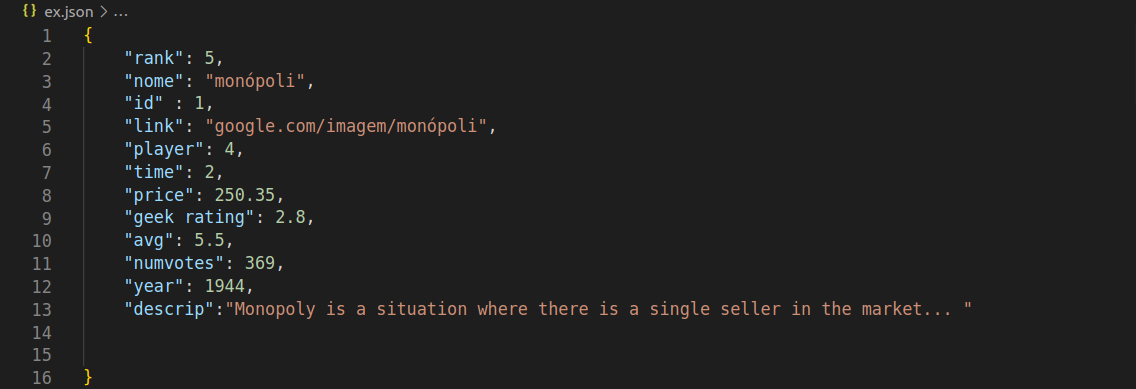
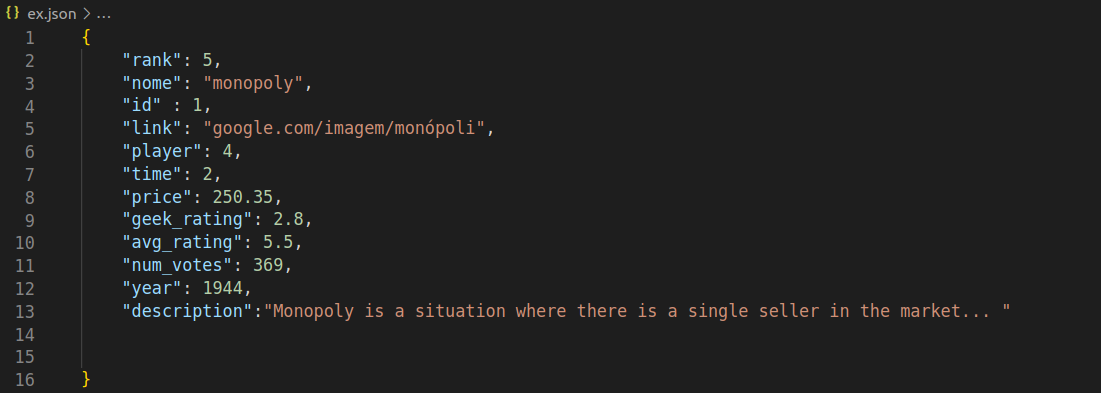
Docs- atualizado

diff --git a/Documentation.md b/Documentation.md
@@ -2,7 +2,7 @@
 ## API:
 
 
-  O Django irá auxiliar para o tratamento de dados contendo as seguintes informações salvas em um banco de dados interno como END points, e retorna-os em um .JSON:
+  <div aling="center" >O Django irá auxiliar para o tratamento de dados contendo as seguintes informações salvas em um banco de dados interno como END points, e retorna-os em um .JSON:</div>
   
   | Endpoint | Descrição | 
   |-----------|:-----------:|
@@ -36,9 +36,9 @@
 | player | Quantidade de jogadores | integer |
 | time | Duração média de uma partida | integer |
 | price | Preço do jogo(se disponível) | float |
-| geek rating | Categoria de 0 a 10 | float |
-| avg | Categoria de 0 a 10 | float |
-| numvotes | Quantidade de pessoas que votaram | integer |
+| geek_rating | Categoria de 0 a 10 | float |
+| avg_rating | Categoria de 0 a 10 | float |
+| num_votes | Quantidade de pessoas que votaram |integer |
 | year | Ano de criação | integer |
 | descrip | Descrição do jogo | string |
 

diff --git a/README.md b/README.md
@@ -5,7 +5,7 @@
 - Lincoln Rodrigo Pereira Melo
 
 #### Projeto
-  Desenvolvou-se uma interface web interativa utilizando serviços de API-RESTful, seguindos os padrões em rotas, crawler/scrappe, o CRUD em Django e ter essa aplicação publicada na internet. O tema da interface será sobre jogos de tabuleiros, desenvolvido para faicilitar na busca deles, utilizando novas ferramentas e características para que o usuário filtre e tenha melhor desempenho ao buscar seu jogo.
+  <div aling="center">Desenvolveu-se uma interface web interativa utilizando serviços de API-RESTful, seguindos os padrões em rotas, crawler/scrappe, o CRUD em Django e ter essa aplicação publicada na internet. O tema da interface será sobre jogos de tabuleiros, com intuito de faicilitar a busca deles, utilizando novas ferramentas e características para que o usuário tenha melhor desempenho ao procura-los.</div>
 ___
 
 1. Criar ambiente virtual
